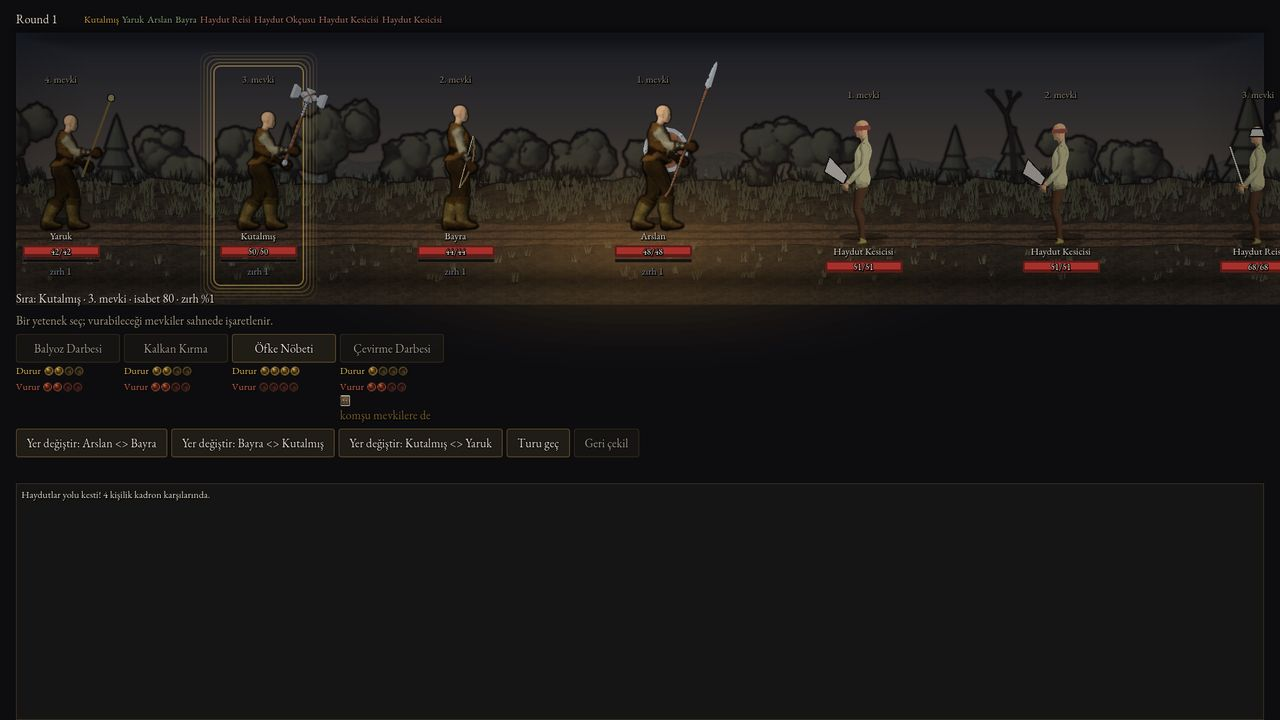
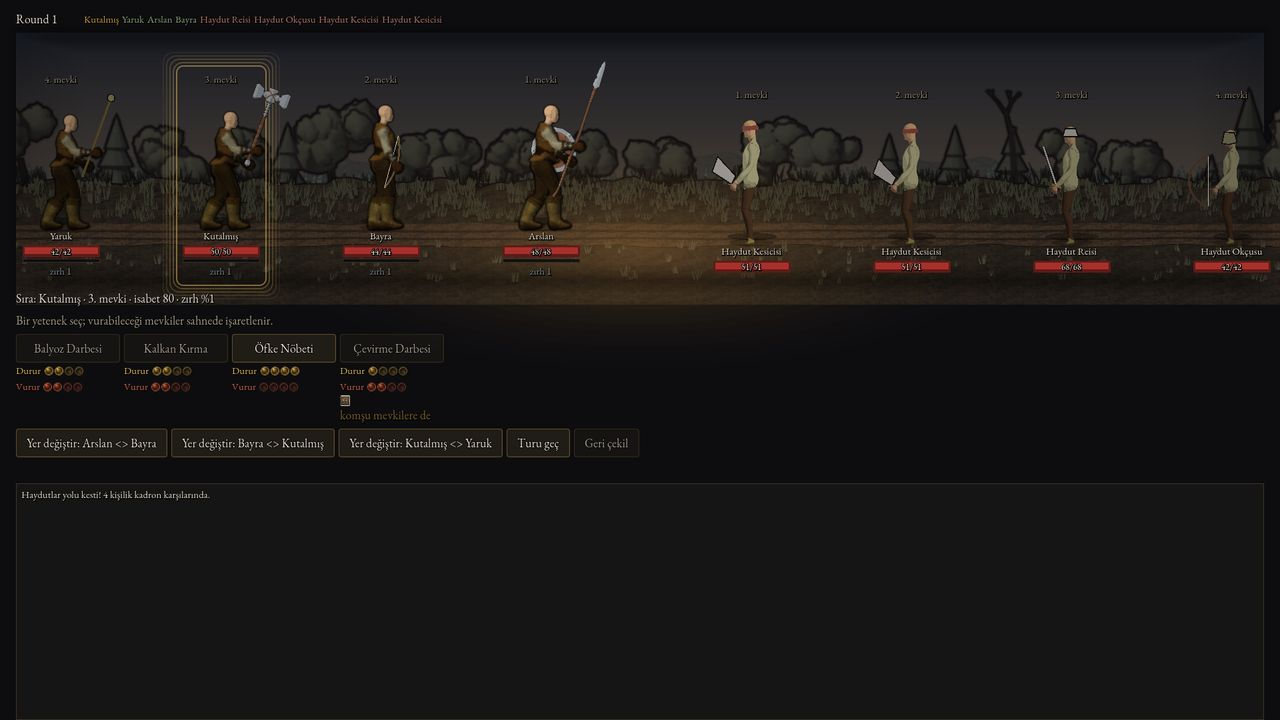
Savas sahnesi: mevki araligi sigacak kadar daralir (dorduncu dusman kadrajda); hub kapi yazisi lider adina binmez

diff --git a/proje_takibi/TEST_TURU.html b/proje_takibi/TEST_TURU.html
@@ -100,8 +100,8 @@
 <section><h2>Bulduğum hatalar</h2>
 <div class="h düzeldi"><b>düzeldi</b> <span><strong>Ayarlar&#x27;da müzik kaydırıcısı.</strong> Oyunda müzik olmamasına rağmen kaydırıcı duruyordu; gizlendi.</span></div>
 <div class="h düzeldi"><b>düzeldi</b> <span><strong>Yeni oyun ekranında Türkçe kalan iki başlık.</strong> &#x27;Kimlik&#x27; ve &#x27;Statlar&#x27; yazıları İngilizce arayüzde Türkçe çıkıyordu; çeviri anahtarına bağlandı.</span></div>
-<div class="h açık"><b>açık</b> <span><strong>Hub: kapı yazısı lider adının üstüne biniyor.</strong> &#x27;Vastrevar Kapısı&#x27; etiketi ile lider adı aynı yükseklikte çakışıyor.</span></div>
-<div class="h açık"><b>açık</b> <span><strong>Savaş sahnesi taşması (görev Y-G05).</strong> 1920 genişlikte üçüncü düşman yarım, dördüncü görünmüyor; alttaki günlük kutusu ekranın yarısını boş kaplıyor.</span></div>
+<div class="h düzeldi"><b>düzeldi</b> <span><strong>Hub: kapı yazısı lider adının üstüne biniyordu.</strong> Etiket yukarı alındı (aşağıdaki kapı görüntüsü eski hâli; yeni çekim sizin PC&#x27;nizde doğrulanacak).</span></div>
+<div class="h düzeldi"><b>düzeldi</b> <span><strong>Savaş sahnesi taşması.</strong> 1920 genişlikte üçüncü düşman yarım, dördüncü görünmüyordu; mevki aralığı artık sığacak kadar daralıyor, dört düşman da kadrajda (görüntüler yeni).</span></div>
 <div class="h açık"><b>açık</b> <span><strong>Kıyafet Dolabı: boş yuvalar ama figür giyinik.</strong> Altı yuva &#x27;boş&#x27; diyor, figür ise yelek, eldiven, bot giymiş; taban kıyafet mi, bir uyumsuzluk mu araştırılacak.</span></div>
 <div class="h not"><b>not</b> <span><strong>Bu ortamda gösterilemeyenler.</strong> Dünya haritasının zemini (Git LFS dokuları indirilmedi, harita boş koyu görünüyor), saat/hava/gece varyantları, kamp, olay kartı zincirleri, defter sayfaları: bunlar bu araçla çekilemedi, kullanıcının bakışına kaldı.</span></div>
 </section>
@@ -179,7 +179,7 @@
 <label class="m"><input type="checkbox" id="c-Y-H04"><span class="k"><b>Y-H04</b> Hiçbir ekranda sıkışma kalmasın</span><span class="r"><i>Nereye</i> Her paneli aç ve Esc ile çık; karar panellerinde Esc&#x27;e bas.</span><span class="r"><i>Görmeli</i> Hiçbir ekranda sıkışma yok: paneller Esc&#x27;e yanıt veriyor; karar panelleri (devralma, kader) yutuyor.</span><span class="r b"><i>Bozuksa</i> Çıkılamayan ekran</span><span class="r nv"><i>Durum</i> Bu ortamda görüntülenemedi; gözle bakılması gerekir.</span></label>
 </section>
 <section><h2>7. Savaş</h2>
-<label class="m"><input type="checkbox" id="c-Y-H05"><span class="k"><b>Y-H05</b> Savaşa vuruş hissi</span><span class="r"><i>Nereye</i> Savaşta vuruş, kritik ve öldürme anları.</span><span class="r"><i>Görmeli</i> Kritikte sahne hedefe yaklaşıyor ve defter satırı çıkıyor; öldürme anında kısa duraklama sonra düşüş; vuruş/kritik/öldürme sesleri çeşitli ve perde oynuyor.</span><span class="r b"><i>Bozuksa</i> Ses hep aynı ya da yakınlaştırma takılıyor</span><figure class="im"><img loading="lazy" src="test_turu_gorseller/savas_kritik.jpg" alt="Savaş: kritik vuruş ve Ölümün Kıyısı"><figcaption>Savaş: kritik vuruş ve Ölümün Kıyısı</figcaption></figure><figure class="im"><img loading="lazy" src="test_turu_gorseller/savas_acilis.jpg" alt="Savaş açılışı"><figcaption>Savaş açılışı</figcaption></figure><span class="r ok"><i>Ben baktım</i> Kritik vuruşta &#x27;Critical! -7&#x27; sayısı ve sarı parlama, hedef halkası; Ölümün Kıyısındaki dosta &#x27;DOOR&#x27; etiketi ve kırmızı ton. Hata: sağdaki düşmanlar kadrajdan taşıyor, günlük alanı çok büyük ve boş (hata listesinde).</span><span class="r ze"><i>Size kalan</i> Vuruş geri bildirimi (parlama + sayı) yeterince &#x27;ağır&#x27; mı?</span></label>
+<label class="m"><input type="checkbox" id="c-Y-H05"><span class="k"><b>Y-H05</b> Savaşa vuruş hissi</span><span class="r"><i>Nereye</i> Savaşta vuruş, kritik ve öldürme anları.</span><span class="r"><i>Görmeli</i> Kritikte sahne hedefe yaklaşıyor ve defter satırı çıkıyor; öldürme anında kısa duraklama sonra düşüş; vuruş/kritik/öldürme sesleri çeşitli ve perde oynuyor.</span><span class="r b"><i>Bozuksa</i> Ses hep aynı ya da yakınlaştırma takılıyor</span><figure class="im"><img loading="lazy" src="test_turu_gorseller/savas_kritik.jpg" alt="Savaş: kritik vuruş ve Ölümün Kıyısı"><figcaption>Savaş: kritik vuruş ve Ölümün Kıyısı</figcaption></figure><figure class="im"><img loading="lazy" src="test_turu_gorseller/savas_acilis.jpg" alt="Savaş açılışı"><figcaption>Savaş açılışı</figcaption></figure><span class="r ok"><i>Ben baktım</i> Kritik vuruşta &#x27;Critical! -7&#x27; sayısı ve sarı parlama, hedef halkası; Ölümün Kıyısındaki dosta &#x27;DOOR&#x27; etiketi ve kırmızı ton. Sağdaki düşmanların kadrajdan taşması düzeltildi.</span><span class="r ze"><i>Size kalan</i> Vuruş geri bildirimi (parlama + sayı) yeterince &#x27;ağır&#x27; mı?</span></label>
 <label class="m"><input type="checkbox" id="c-Y-C07"><span class="k"><b>Y-C07</b> Savaştan bedelli geri çekilme</span><span class="r"><i>Nereye</i> Dar durumda geri çekil.</span><span class="r"><i>Görmeli</i> Savaş paneli geri çekilmeyi teklif ediyor: yükün üçte biri, bir vagon feda (enkaz yolda kalır) ya da artçı; savaş kaybı cezası yok, hafif moral kaybı.</span><span class="r b"><i>Bozuksa</i> Geri çekilme bedelsiz ya da seçenek çıkmıyor</span><figure class="im"><img loading="lazy" src="test_turu_gorseller/savas_kritik.jpg" alt="Geri çekilme düğmeleri"><figcaption>Geri çekilme düğmeleri</figcaption></figure><span class="r ok"><i>Ben baktım</i> Dar durumda &#x27;Yükü bırakıp kaç&#x27;, &#x27;Bir vagonu feda edip kaç&#x27; ve &#x27;artçıyı tut&#x27; düğmeleri çıkıyor (ilk görüntüde gri/kilitli).</span></label>
 <label class="m"><input type="checkbox" id="c-Y-C08"><span class="k"><b>Y-C08</b> Düşmanlara kişilik ver</span><span class="r"><i>Nereye</i> Haydut reisi, kurt ve muhafızla birer savaş.</span><span class="r"><i>Görmeli</i> Reis liderine, kurt en yaralıya saldırıyor, muhafız ölümün kıyısındakini bitirmiyor.</span><span class="r b"><i>Bozuksa</i> Hepsi aynı hedefi seçiyor</span><figure class="im"><img loading="lazy" src="test_turu_gorseller/savas_acilis.jpg" alt="Haydut kadrosu"><figcaption>Haydut kadrosu</figcaption></figure><span class="r ok"><i>Ben baktım</i> Sıra listesinde Haydut Reisi, Okçusu ve iki Kesici var; reisin canı diğerlerinden yüksek (68). Kurt ve muhafızı çekemedim.</span></label>
 <label class="m"><input type="checkbox" id="c-Y-C03"><span class="k"><b>Y-C03</b> Ganimet: eşya, kıyafet, sarf, nadir bulgu</span><span class="r"><i>Nereye</i> Zaferden sonra ganimet ekranı.</span><span class="r"><i>Görmeli</i> Düşman türüne göre ganimet listesi; mal/kıyafet/ekipman ilgili depolara düşüyor.</span><span class="r b"><i>Bozuksa</i> Ganimet hep aynı</span><span class="r nv"><i>Durum</i> Bu ortamda görüntülenemedi; gözle bakılması gerekir.</span></label>

diff --git a/proje_takibi/referans/test_turu_gorsel.py b/proje_takibi/referans/test_turu_gorsel.py
@@ -83,7 +83,7 @@ G = {
     "Y-H05": {
         "img": [("savas_kritik.jpg", "Savaş: kritik vuruş ve Ölümün Kıyısı"), ("savas_acilis.jpg", "Savaş açılışı")],
         "ben": "Kritik vuruşta 'Critical! -7' sayısı ve sarı parlama, hedef halkası; Ölümün Kıyısındaki dosta 'DOOR' etiketi ve kırmızı ton. "
-               "Hata: sağdaki düşmanlar kadrajdan taşıyor, günlük alanı çok büyük ve boş (hata listesinde).",
+               "Sağdaki düşmanların kadrajdan taşması düzeltildi.",
         "estetik": "Vuruş geri bildirimi (parlama + sayı) yeterince 'ağır' mı?",
     },
     "Y-C07": {
@@ -102,8 +102,8 @@ G = {
 HATALAR = [
     ("düzeldi", "Ayarlar'da müzik kaydırıcısı", "Oyunda müzik olmamasına rağmen kaydırıcı duruyordu; gizlendi."),
     ("düzeldi", "Yeni oyun ekranında Türkçe kalan iki başlık", "'Kimlik' ve 'Statlar' yazıları İngilizce arayüzde Türkçe çıkıyordu; çeviri anahtarına bağlandı."),
-    ("açık", "Hub: kapı yazısı lider adının üstüne biniyor", "'Vastrevar Kapısı' etiketi ile lider adı aynı yükseklikte çakışıyor."),
-    ("açık", "Savaş sahnesi taşması (görev Y-G05)", "1920 genişlikte üçüncü düşman yarım, dördüncü görünmüyor; alttaki günlük kutusu ekranın yarısını boş kaplıyor."),
+    ("düzeldi", "Hub: kapı yazısı lider adının üstüne biniyordu", "Etiket yukarı alındı (aşağıdaki kapı görüntüsü eski hâli; yeni çekim sizin PC'nizde doğrulanacak)."),
+    ("düzeldi", "Savaş sahnesi taşması", "1920 genişlikte üçüncü düşman yarım, dördüncü görünmüyordu; mevki aralığı artık sığacak kadar daralıyor, dört düşman da kadrajda (görüntüler yeni)."),
     ("açık", "Kıyafet Dolabı: boş yuvalar ama figür giyinik", "Altı yuva 'boş' diyor, figür ise yelek, eldiven, bot giymiş; taban kıyafet mi, bir uyumsuzluk mu araştırılacak."),
     ("not", "Bu ortamda gösterilemeyenler", "Dünya haritasının zemini (Git LFS dokuları indirilmedi, harita boş koyu görünüyor), saat/hava/gece varyantları, kamp, "
      "olay kartı zincirleri, defter sayfaları: bunlar bu araçla çekilemedi, kullanıcının bakışına kaldı."),

diff --git a/proje_takibi/TEST_TURU.md b/proje_takibi/TEST_TURU.md
@@ -13,8 +13,8 @@ Bir maddeyi onayladığınızda bana 'X tamam' demeniz yeter; ben kaydı 'bitti'
 
 - **[düzeldi]** Ayarlar'da müzik kaydırıcısı: Oyunda müzik olmamasına rağmen kaydırıcı duruyordu; gizlendi.
 - **[düzeldi]** Yeni oyun ekranında Türkçe kalan iki başlık: 'Kimlik' ve 'Statlar' yazıları İngilizce arayüzde Türkçe çıkıyordu; çeviri anahtarına bağlandı.
-- **[açık]** Hub: kapı yazısı lider adının üstüne biniyor: 'Vastrevar Kapısı' etiketi ile lider adı aynı yükseklikte çakışıyor.
-- **[açık]** Savaş sahnesi taşması (görev Y-G05): 1920 genişlikte üçüncü düşman yarım, dördüncü görünmüyor; alttaki günlük kutusu ekranın yarısını boş kaplıyor.
+- **[düzeldi]** Hub: kapı yazısı lider adının üstüne biniyordu: Etiket yukarı alındı (aşağıdaki kapı görüntüsü eski hâli; yeni çekim sizin PC'nizde doğrulanacak).
+- **[düzeldi]** Savaş sahnesi taşması: 1920 genişlikte üçüncü düşman yarım, dördüncü görünmüyordu; mevki aralığı artık sığacak kadar daralıyor, dört düşman da kadrajda (görüntüler yeni).
 - **[açık]** Kıyafet Dolabı: boş yuvalar ama figür giyinik: Altı yuva 'boş' diyor, figür ise yelek, eldiven, bot giymiş; taban kıyafet mi, bir uyumsuzluk mu araştırılacak.
 - **[not]** Bu ortamda gösterilemeyenler: Dünya haritasının zemini (Git LFS dokuları indirilmedi, harita boş koyu görünüyor), saat/hava/gece varyantları, kamp, olay kartı zincirleri, defter sayfaları: bunlar bu araçla çekilemedi, kullanıcının bakışına kaldı.
 
@@ -374,7 +374,7 @@ Bir maddeyi onayladığınızda bana 'X tamam' demeniz yeter; ben kaydı 'bitti'
   - Bozuksa: Ses hep aynı ya da yakınlaştırma takılıyor
   - ![Savaş: kritik vuruş ve Ölümün Kıyısı](test_turu_gorseller/savas_kritik.jpg)
   - ![Savaş açılışı](test_turu_gorseller/savas_acilis.jpg)
-  - **Ben baktım:** Kritik vuruşta 'Critical! -7' sayısı ve sarı parlama, hedef halkası; Ölümün Kıyısındaki dosta 'DOOR' etiketi ve kırmızı ton. Hata: sağdaki düşmanlar kadrajdan taşıyor, günlük alanı çok büyük ve boş (hata listesinde).
+  - **Ben baktım:** Kritik vuruşta 'Critical! -7' sayısı ve sarı parlama, hedef halkası; Ölümün Kıyısındaki dosta 'DOOR' etiketi ve kırmızı ton. Sağdaki düşmanların kadrajdan taşması düzeltildi.
   - **Size kalan (zevk):** Vuruş geri bildirimi (parlama + sayı) yeterince 'ağır' mı?
 - [ ] **Y-C07** Savaştan bedelli geri çekilme
   - Nereye: Dar durumda geri çekil.
